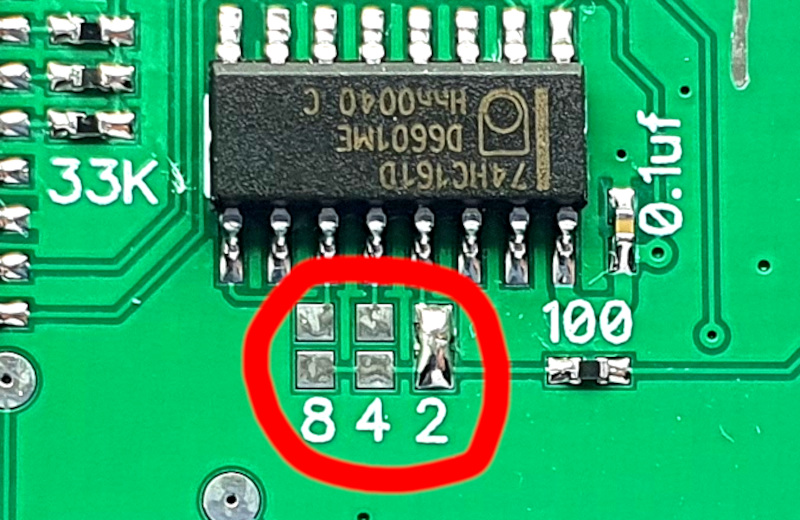
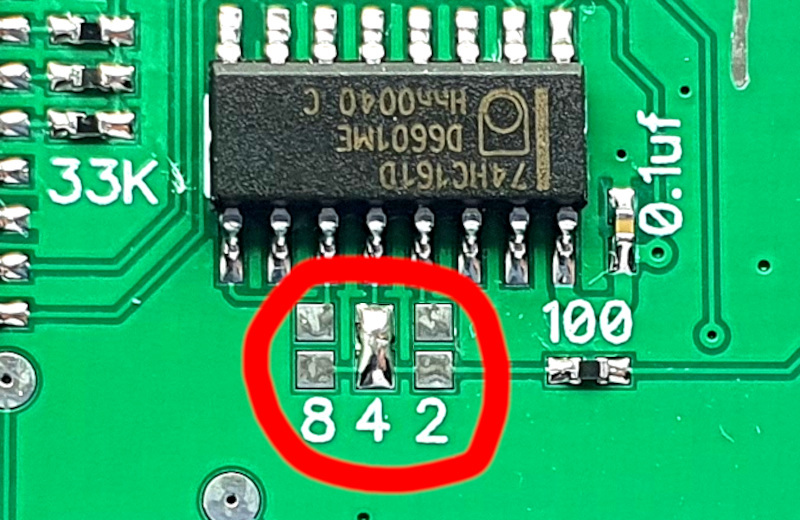
Text fix, image fix

Changed region(s): [[0.4375, 0.5846, 0.5938, 0.7692]]

diff --git a/GamePad/GamePad.html b/GamePad/GamePad.html
@@ -84,7 +84,7 @@
 <p>Оригінальний Famicom:</p>
 <p align=center><img class="img_fit" width="90%" src="img/Famicom.jpg" alt=""></p>
 
-<p>Оригінальна NES, Але одного отвіру не вистачає, буде виправленно на нових моделях:</p>
+<p>Оригінальна NES, Але одного отвору не вистачає, буде виправленно на нових моделях:</p>
 <p align=center><img class="img_fit" width="90%" src="img/NesPal.jpg" alt=""></p>
 
 <p>Dendy Junior:</p>
@@ -116,11 +116,11 @@
 
 <p align=center style="font-size:3vw;">А що там за 8-4-2?</p>
 <p align=center><img class="img_fit" width="90%" src="img/8-4-2.jpg" alt=""></p>
-<p>Це налаштування турбо кнопок (дільник), по замовченню рекомендовано обирати 2. Кожні 2 опитування геймпаду буде мінятися "натискання" турбо кнопки. В залежності від гри опитування геймпаду відбуваеться 1-2 рази за кадр. Чим більший обран дільник, тим менша швидкість турбо кнопок. Дільник "1" обирати неможливо, бо це може призвести до зависання або відмови управління.</p>
+<p>Це налаштування турбо кнопок (дільник), по замовченню рекомендовано обирати 4. Кожні 4 опитування геймпаду буде мінятися "натискання" турбо кнопки. В залежності від гри опитування геймпаду відбувається 1-2 рази за кадр (та додатково посилається сигнал збросу). Чим більший обран дільник, тим менша швидкість турбо кнопок. Дільник "1" обирати неможливо, бо це може призвести до зависання або відмови управління. Дільник "2" теж може привести до зависання. На базі цього глюка для деяких ігор роблять есплоіти.</p>
 
 <p align=center style="font-size:3vw;">Ну а як під'єднати?</p>
 <p align=center><img class="img_fit" width="90%" src="img/connect.jpg" alt=""></p>
-<p>Для цього знадобиться мультіметр. Перевіряемо який дріт куди під'єднан, та запаюємо.</p>
+<p>Для цього знадобиться мультиметр. Перевіряемо який дріт куди під'єднаний, та запаюємо.</p>
 
 </div>
 </div>
